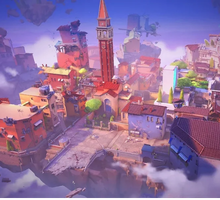
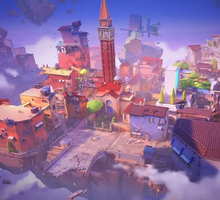
Correção da ascent e bind

diff --git a/VCT-A/VCT.cs b/VCT-A/VCT.cs
@@ -40,17 +40,11 @@ namespace VCT_A
         private void VCT_Load(object sender, EventArgs e)
         {
             Tocar("MusicFEARLESS.mp3");
-            //comboBox2.Parent = pictureBox12;
-            //comboBox3.Parent = pictureBox11;
-            //pictureBox11.Parent = comboBox3;
-                //pictureBox12.Parent = comboBox2;
         }
 
         private void Tocar(string arquivo)
         {
             player.controls.stop();
-
-            // Use System.IO.Path e System.Windows.Forms.Application
             string caminho = System.IO.Path.Combine(System.Windows.Forms.Application.StartupPath,"Audio",arquivo);
             player.URL = caminho;
             player.controls.play();
@@ -62,7 +56,7 @@ namespace VCT_A
 
             if (System.IO.File.Exists(caminho))
             {
-                // Remove e adiciona o evento para evitar acúmulo de inscrições duplicadas
+                // Remove e adiciona o evento pra nn duplicar
                 playerwav.LoadCompleted -= Playerwav_LoadCompleted;
                 playerwav.LoadCompleted += Playerwav_LoadCompleted;
                 playerwav.SoundLocation = caminho;
@@ -70,7 +64,7 @@ namespace VCT_A
             }
         }
 
-        // Evento que executa o Play assim que o áudio termina de carregar
+        //executa o wav assim que carregar
         private void Playerwav_LoadCompleted(object sender, System.ComponentModel.AsyncCompletedEventArgs e)
         {
             playerwav.Play();
@@ -125,7 +119,6 @@ namespace VCT_A
             }
             else if (selecao == "Masters")
             {
-                // Reprodução de áudio
                 TocarWav("AudioListBox.wav");
                 player.controls.stop();
                 comboBox1.Text = "";
@@ -1153,7 +1146,7 @@ namespace VCT_A
                         pictureBox12.BackgroundImage = Properties.Resources.Ascent;
                         break;
                     case "Bind":
-                        pictureBox12.BackgroundImage = Properties.Resources.Bind;
+                        pictureBox12.BackgroundImage = Properties.Resources.BindA;
                         break;
                     case "Breeze":
                         pictureBox12.BackgroundImage = Properties.Resources.Breeze;

diff --git a/VCT-A/Properties/Resources.Designer.cs b/VCT-A/Properties/Resources.Designer.cs
@@ -143,6 +143,26 @@ namespace VCT_A.Properties {
         /// <summary>
         ///   Consulta um recurso localizado do tipo System.Drawing.Bitmap.
         /// </summary>
+        internal static System.Drawing.Bitmap Bind1 {
+            get {
+                object obj = ResourceManager.GetObject("Bind1", resourceCulture);
+                return ((System.Drawing.Bitmap)(obj));
+            }
+        }
+        
+        /// <summary>
+        ///   Consulta um recurso localizado do tipo System.Drawing.Bitmap.
+        /// </summary>
+        internal static System.Drawing.Bitmap BindA {
+            get {
+                object obj = ResourceManager.GetObject("BindA", resourceCulture);
+                return ((System.Drawing.Bitmap)(obj));
+            }
+        }
+        
+        /// <summary>
+        ///   Consulta um recurso localizado do tipo System.Drawing.Bitmap.
+        /// </summary>
         internal static System.Drawing.Bitmap Breeze {
             get {
                 object obj = ResourceManager.GetObject("Breeze", resourceCulture);

diff --git a/VCT-A/VCT.Designer.cs b/VCT-A/VCT.Designer.cs
@@ -521,7 +521,7 @@
             // 
             // pictureBox12
             // 
-            this.pictureBox12.BackgroundImageLayout = System.Windows.Forms.ImageLayout.Zoom;
+            this.pictureBox12.BackgroundImageLayout = System.Windows.Forms.ImageLayout.Stretch;
             this.pictureBox12.Location = new System.Drawing.Point(1600, 322);
             this.pictureBox12.Margin = new System.Windows.Forms.Padding(4);
             this.pictureBox12.Name = "pictureBox12";
